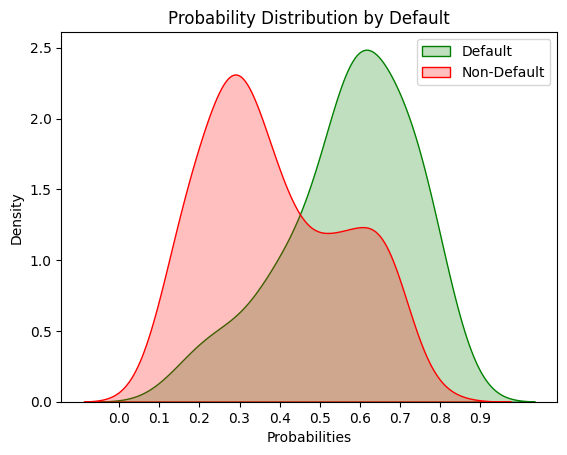
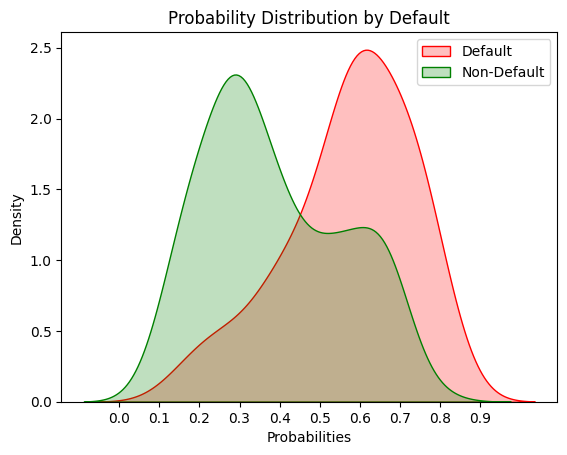
Probability dist by default color adjusted

Changed region(s): [[0.1499, 0.0923, 0.9295, 0.8923]]

diff --git a/notebooks/modelling_utils.py b/notebooks/modelling_utils.py
@@ -211,8 +211,8 @@ def target_probability_distributions(predicted_probas, y_true, positive_label='1
         probas_negative = predicted_probas[y_true == 0]
 
         # Plotting kde plot with shaded curves
-        sns.kdeplot(probas_positive, label=positive_label, color='green', shade=True)
-        sns.kdeplot(probas_negative, label=negative_label, color='red', shade=True)
+        sns.kdeplot(probas_positive, label=positive_label, color='red', shade=True)
+        sns.kdeplot(probas_negative, label=negative_label, color='green', shade=True)
 
         # Customizing the plot.
         plt.title(f'Probability Distribution by {positive_label}')
